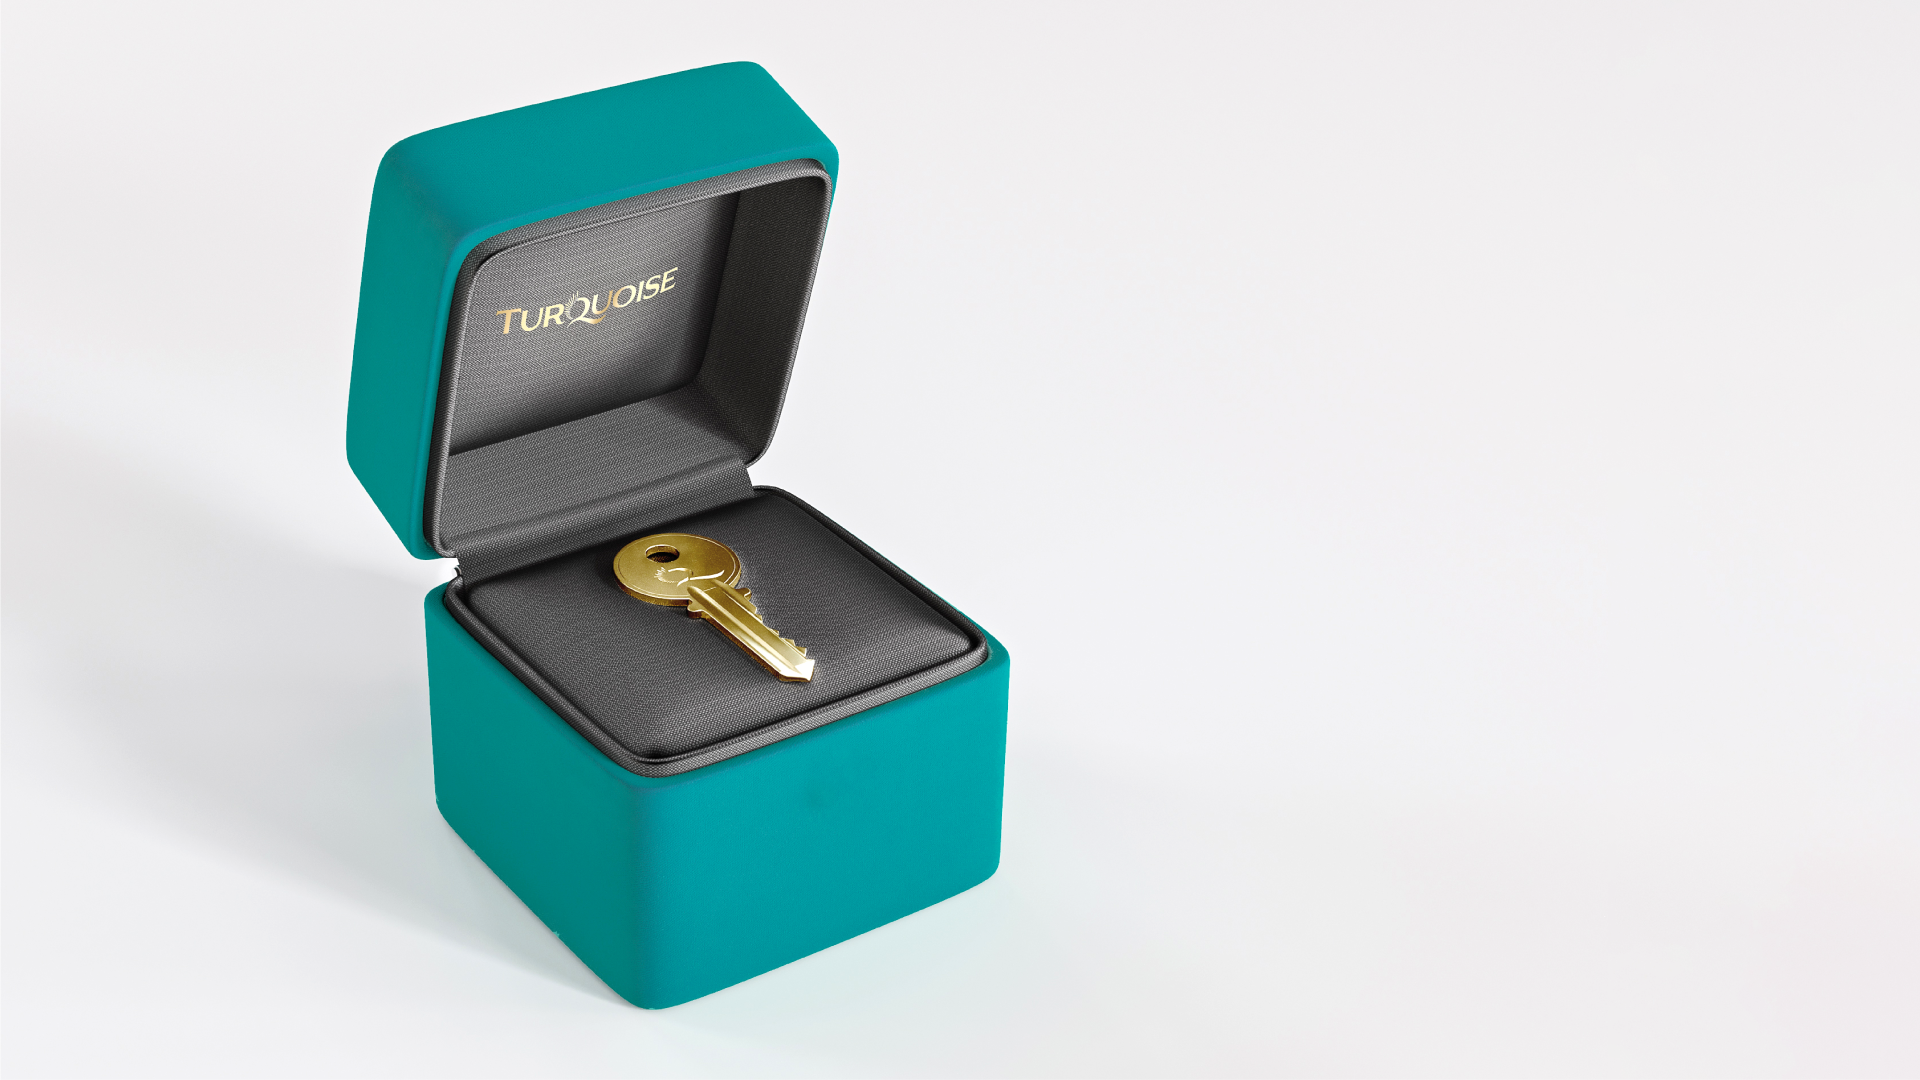
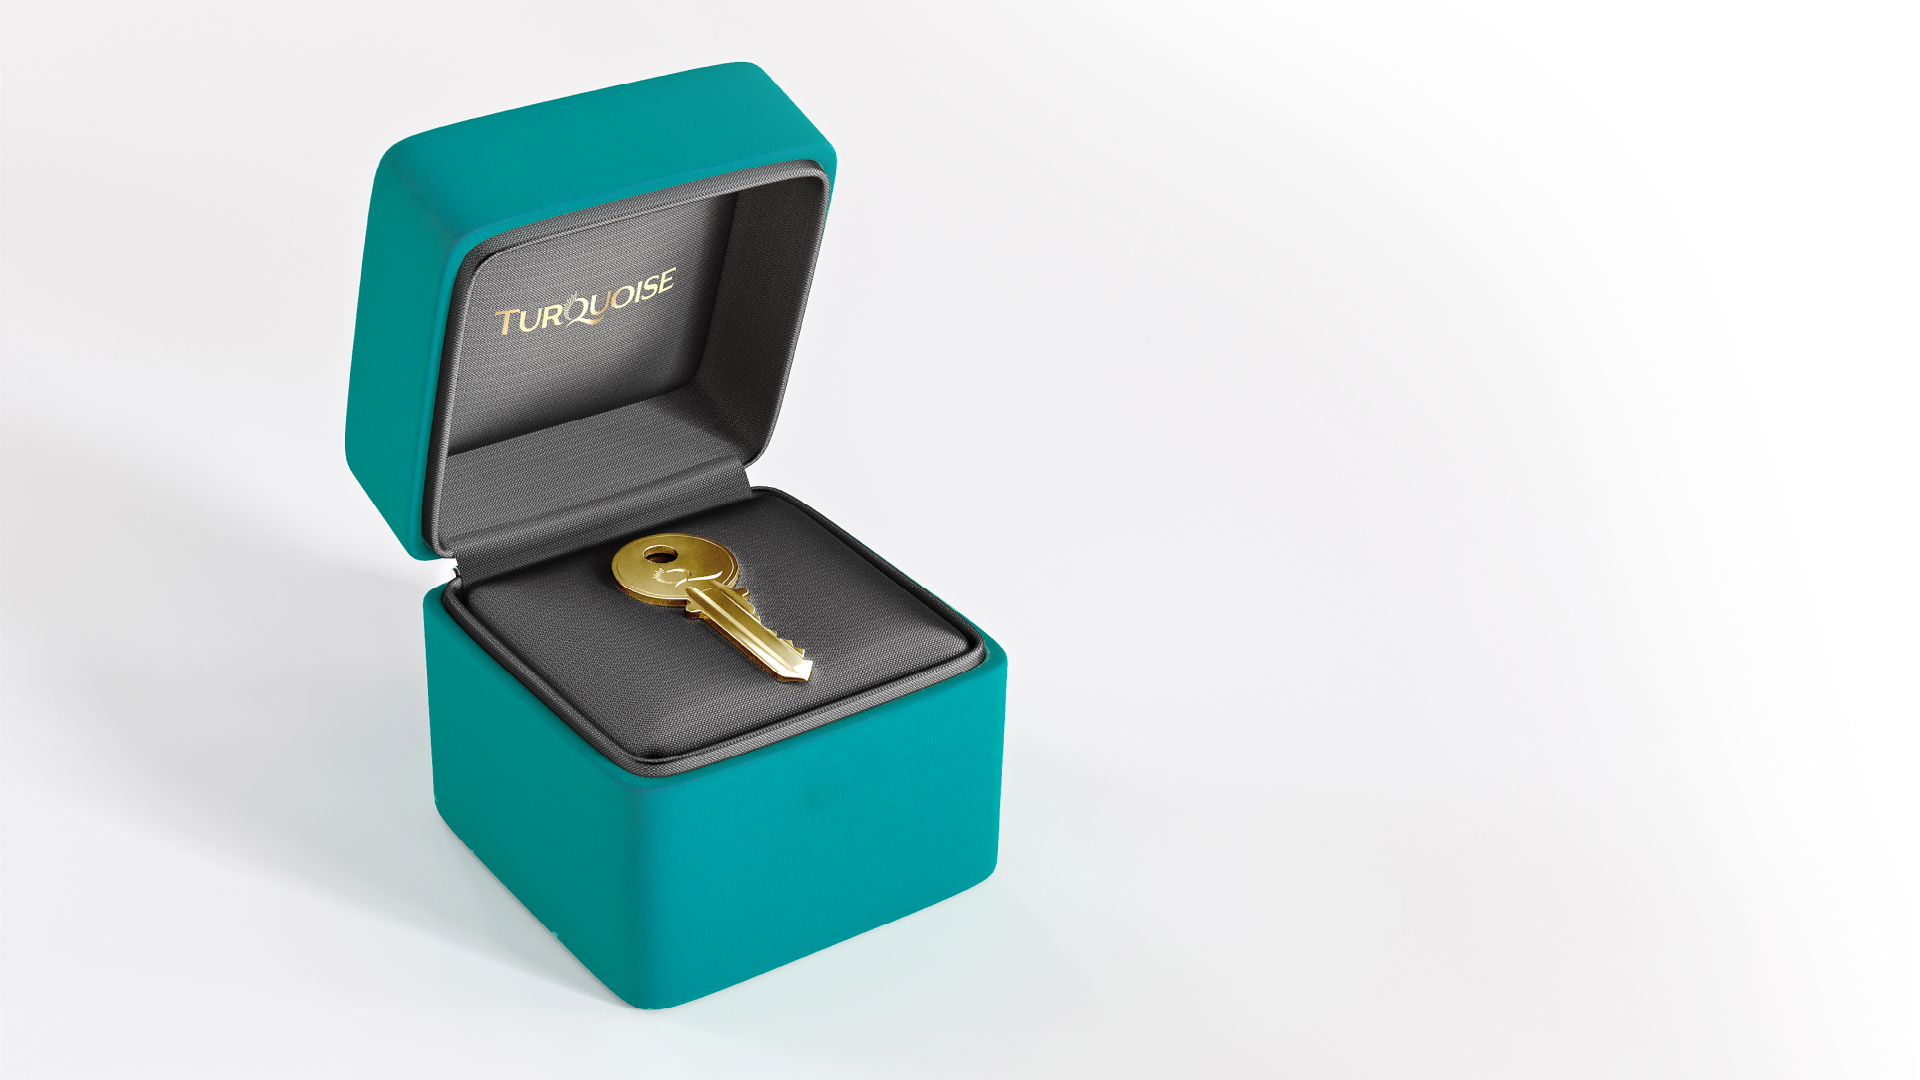
fix: White background

Changed region(s): [[0.2188, 0.1222, 0.5312, 0.7333]]

diff --git a/src/layouts/Houses/style.ts b/src/layouts/Houses/style.ts
@@ -6,7 +6,7 @@ import styled from "styled-components";
 
 export const HousesBackground = styled.div<AnimateOnActiveComponentProps>`
     ${Section}
-    background-color: #f3f0f1;
+    background-color: #ffffff;
 
     ${dissolveDefaultAnimation}
     animation-delay: 1s;
@@ -58,7 +58,7 @@ export const HousesCTA = styled.a`
     }
 
     ${BREAKPOINTS.upToTablet} {
-        font-size: .8rem;
+        font-size: 0.8rem;
         padding: 10px 12px 9px;
     }
 `;
